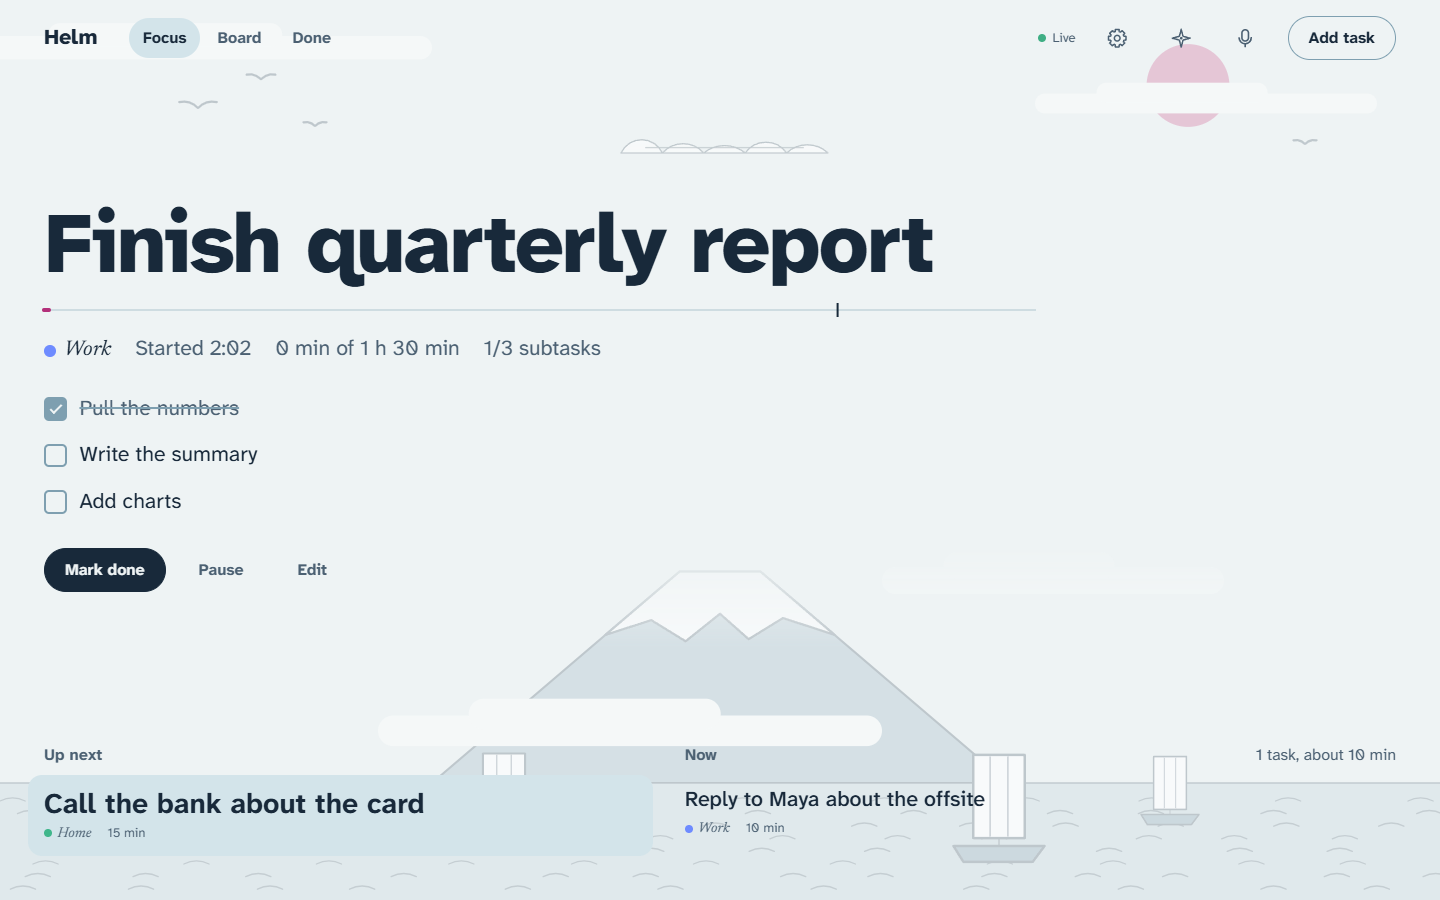
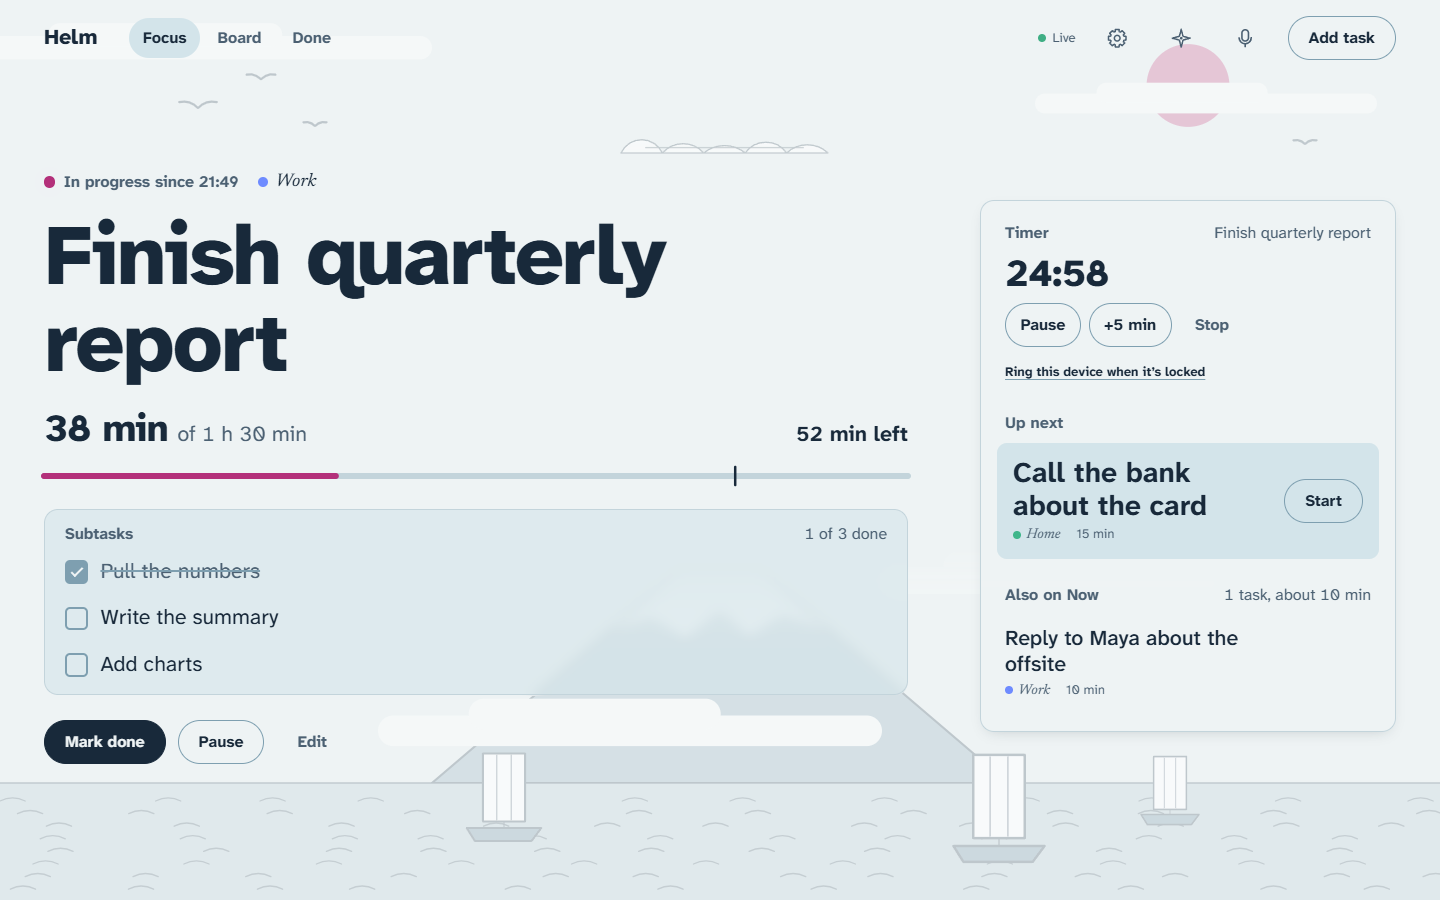
Refresh README for the timer, Focus and board menu, and fix the phone project sheet
The README gets a Timer section (presets, the top-bar chip, alerts on
locked devices), describes the new Focus layout and the project menu
(move earlier/later, archive, delete), notes the permanent delete and
owner-only timer endpoints, shows the new app icon, and clones the now
public repo on the Pi. Screenshots are retaken from the demo board,
with new ones of the timer, the time's up banner, timer alerts in
Settings and a project's menu.

On phones the project dialog kept its desktop width and sat against
the left edge; its width now applies only above the phone breakpoint,
so it is a full-width bottom sheet like the task editor.

diff --git a/apps/web/src/features/task-editor/editor.css b/apps/web/src/features/task-editor/editor.css
@@ -349,8 +349,11 @@
 
 /* ----- Project dialog ----- */
 
-.editor-small {
-  width: min(26rem, calc(100vw - 2rem));
+/* Wider screens only: on phones it stays a full-width bottom sheet. */
+@media (min-width: 561px) {
+  .editor-small {
+    width: min(26rem, calc(100vw - 2rem));
+  }
 }
 .button-row {
   display: flex;

diff --git a/README.md b/README.md
@@ -1,4 +1,4 @@
-# Helm
+# <img src="apps/web/public/icon-192.png" width="40" alt=""> Helm
 
 Personal live task board, readable by you and by AI agents.
 
@@ -26,20 +26,35 @@ assistant (`ai:<name>`).
 
 ![Focus on a desktop: the task in progress, its subtasks and what's next](docs/screenshots/desktop-focus.png)
 
-The view to leave open. The task in progress sits at the top in large type, with its subtasks
-and a timeline of time spent against the estimate (it turns to the accent color when you run
-over). Beside it: a countdown timer, what's up next, and the rest of Now, each with a Start button.
+The view to leave open. The task in progress sits at the top in large type, under when you
+started it and its project. Below it: time spent as a large readout with the time left (or
+over) beside it, a course line against the estimate that turns to the accent color when you run
+over, and the subtasks in their own panel. Beside it on a wide screen (below it on a phone): a
+countdown timer, what's up next, and the rest of Now, each with a Start button.
+
+### Timer
+
+<p>
+  <img src="docs/screenshots/phone-focus-queue.png" width="250" alt="The timer, up next and the rest of Now on a phone">
+  <img src="docs/screenshots/phone-timeup.png" width="250" alt="The time's up banner when a timer ends">
+  <img src="docs/screenshots/phone-settings-alerts.png" width="250" alt="Timer alerts in Settings, turned on per device">
+</p>
+
+Start one from Focus: 5, 15, 25 or 45 minutes, or any length, labelled with the task in
+progress. Pause, resume, add 5 minutes or stop it. On the other views a chip in the top bar (a
+floating pill on a phone) keeps the countdown in sight.
 
 The timer runs on the server, so every device shows the same countdown. When it ends, Helm
-chimes and shows a banner on any open device, and sends a notification to each device where
-you turned on alerts (Settings → Timer alerts), even with Helm closed or the phone locked. That
-uses Web Push: it needs the HTTPS address, and on iPhone the app added to the home screen.
+chimes, vibrates and shows a banner on any open device, and sends a notification to each device
+where you turned on alerts (Settings → Timer alerts), even with Helm closed or the phone locked.
+That uses Web Push: it needs the HTTPS address, and on iPhone the app added to the home screen.
+The push keys are made on first start and kept in the database, so there's nothing to set up.
 
 ### Board, Done and your phone
 
 <p>
-  <img src="docs/screenshots/phone-focus.png" width="250" alt="Focus on a phone">
   <img src="docs/screenshots/phone-board.png" width="250" alt="Board on a phone, one bin per project">
+  <img src="docs/screenshots/phone-board-menu.png" width="250" alt="A project's menu: color, icon, place on the board, archive or delete">
   <img src="docs/screenshots/phone-done.png" width="250" alt="Done log on a phone, grouped by day">
 </p>
 
@@ -47,6 +62,10 @@ uses Web Push: it needs the HTTPS address, and on iPhone the app added to the ho
   tasks grouped by priority inside it. Drag a task to another panel or priority, reorder within
   one, and double-click a panel to fold it. Settings → Board panels sets how strongly the panels
   stand out from the page.
+- **A project's menu** (⋯ on its panel): rename it, pick its color and icon, move it earlier or
+  later on the board (the Inbox always comes first), archive it, or delete it. Archiving hides
+  the project and keeps its tasks; deleting asks first, then removes the project and all its
+  tasks, open and done, for good.
 - **Done**: what you finished, grouped by day with a time for each, filtered by date range or
   project. Reopen anything finished by mistake.
 - **On a phone** Helm installs from the browser like an app and opens offline with the last
@@ -223,11 +242,10 @@ sleeps. A Pi 4 or 5 with 2 GB or more works; the steps assume Raspberry Pi OS Li
    sudo tailscale up                  # open the link it prints and sign in
    ```
 
-3. **Get Helm.** The repository is private, so sign in to GitHub first (`sudo apt install gh`,
-   then `gh auth login`):
+3. **Get Helm:**
 
    ```bash
-   gh repo clone Motyst/helm && cd helm
+   git clone https://github.com/Motyst/helm.git && cd helm
    ```
 
 4. **Settings.** From your computer, copy your `.env` over (it holds the password and the OpenAI
@@ -323,7 +341,10 @@ change access `create_task`, `update_task`, `start_task`, `pause_task`, `complet
 `reopen_task`, `move_task`. Read-only tokens only see the read tools. There is no delete tool.
 
 **REST**: every `/api/v1` endpoint accepts `Authorization: Bearer helm_...`, with the same
-scope rules. Tasks created with a token are marked `ai:<token name>`.
+scope rules. Tasks created with a token are marked `ai:<token name>`. `DELETE
+/api/v1/projects/:id` archives a project; add `?permanent=true` to delete it and its tasks
+(tokens need read and change access to all projects). The timer endpoints
+(`/api/v1/timer`) are for the owner only.
 
 Assistants that only accept OAuth connectors (such as Claude or ChatGPT on the web) can't use a
 plain token yet.
